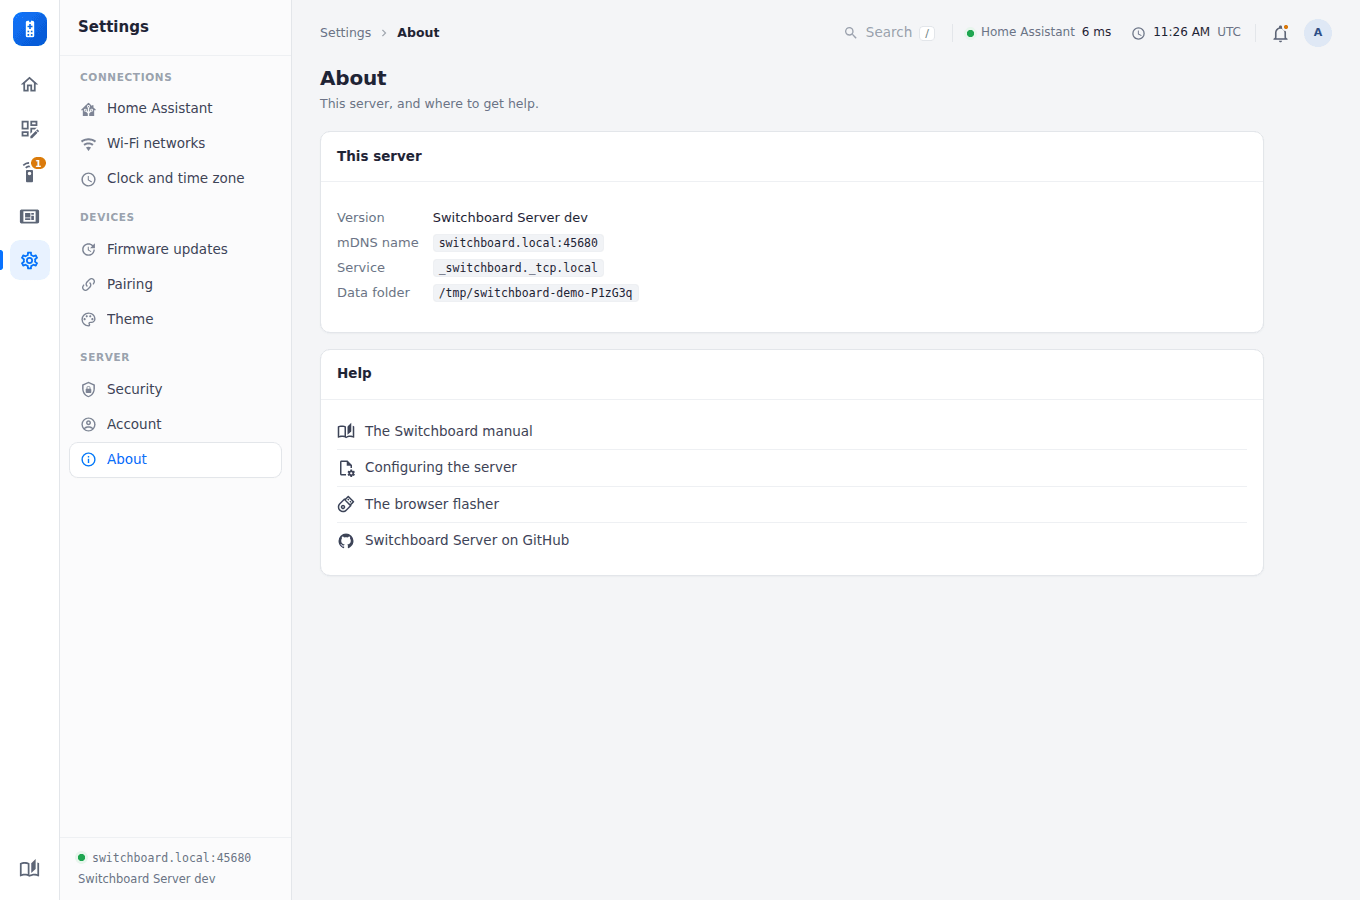
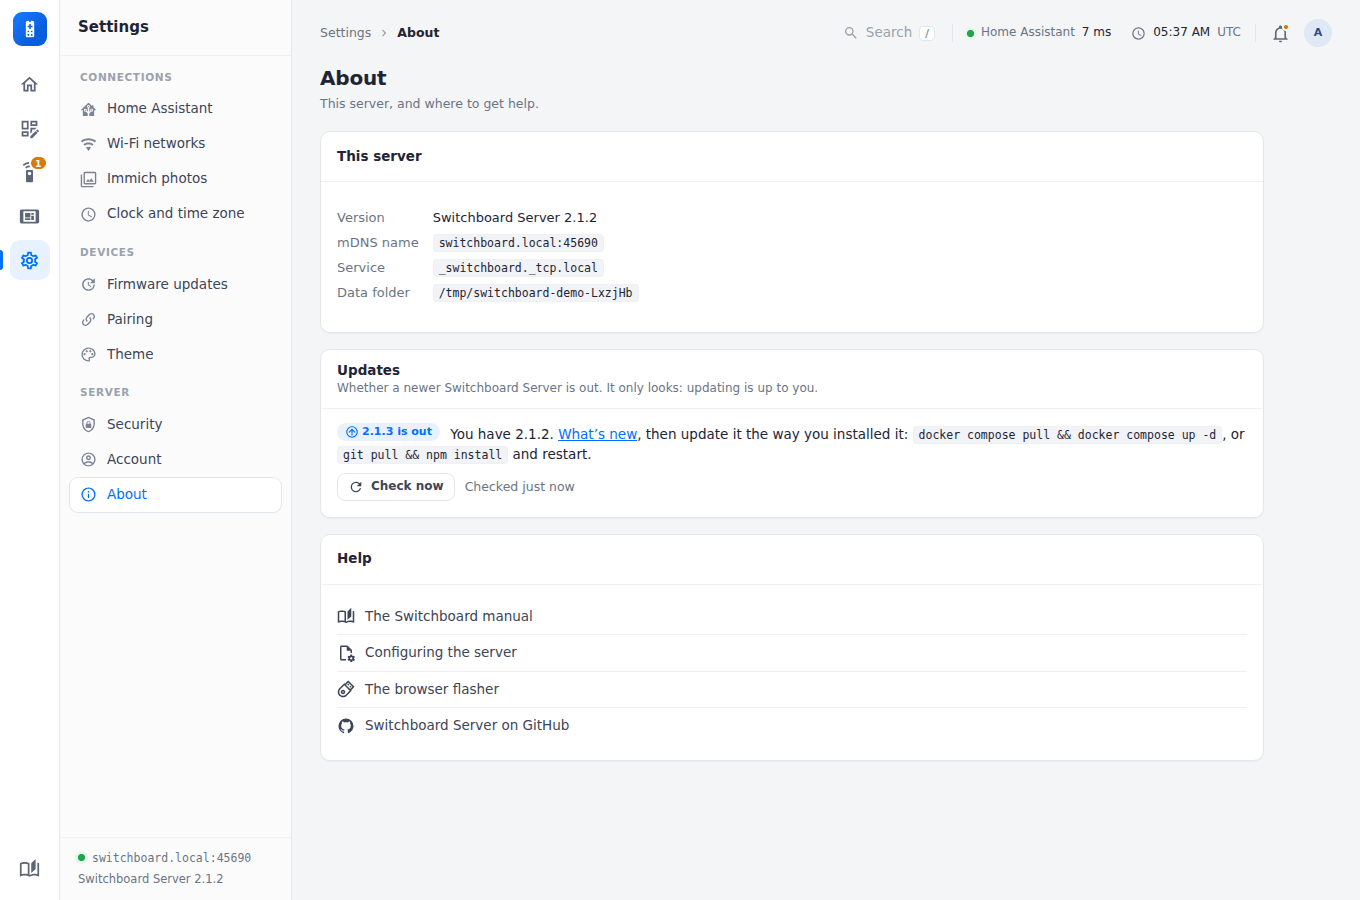
Manual: Settings → About's Updates card, and its screenshot
Claude-Session: https://claude.ai/code/session_012u7Tsk3WmSPsMgQDKQsdJ4

diff --git a/docs/manual/server/settings.md b/docs/manual/server/settings.md
@@ -56,4 +56,6 @@ Change the admin password. If `ADMIN_PASSWORD` is set on the container, it repla
 
 ## About
 
-<figure class="shot"><img src="../images/admin/settings-about.png" alt="Settings, About"><figcaption>This server's version, address and data folder, and where to get help.</figcaption></figure>
+<figure class="shot"><img src="../images/admin/settings-about.png" alt="Settings, About"><figcaption>This server's version, address and data folder, whether a newer version is out, and where to get help.</figcaption></figure>
+
+**Updates** says whether a newer Switchboard Server is out. The server asks GitHub for the latest release a minute after it starts and then twice a day; **Check now** asks again. When there's a newer one, it links to the release notes and it's on the Home page's **Needs attention** too. It only looks: update the way you installed it (`docker compose pull && docker compose up -d`, or `git pull && npm install` and restart). A development build (no version set) can't tell whether it's behind, so it never says so. To stop it asking, set `DISABLE_UPDATE_CHECK=1` ([Configuration](configuration.md)).
